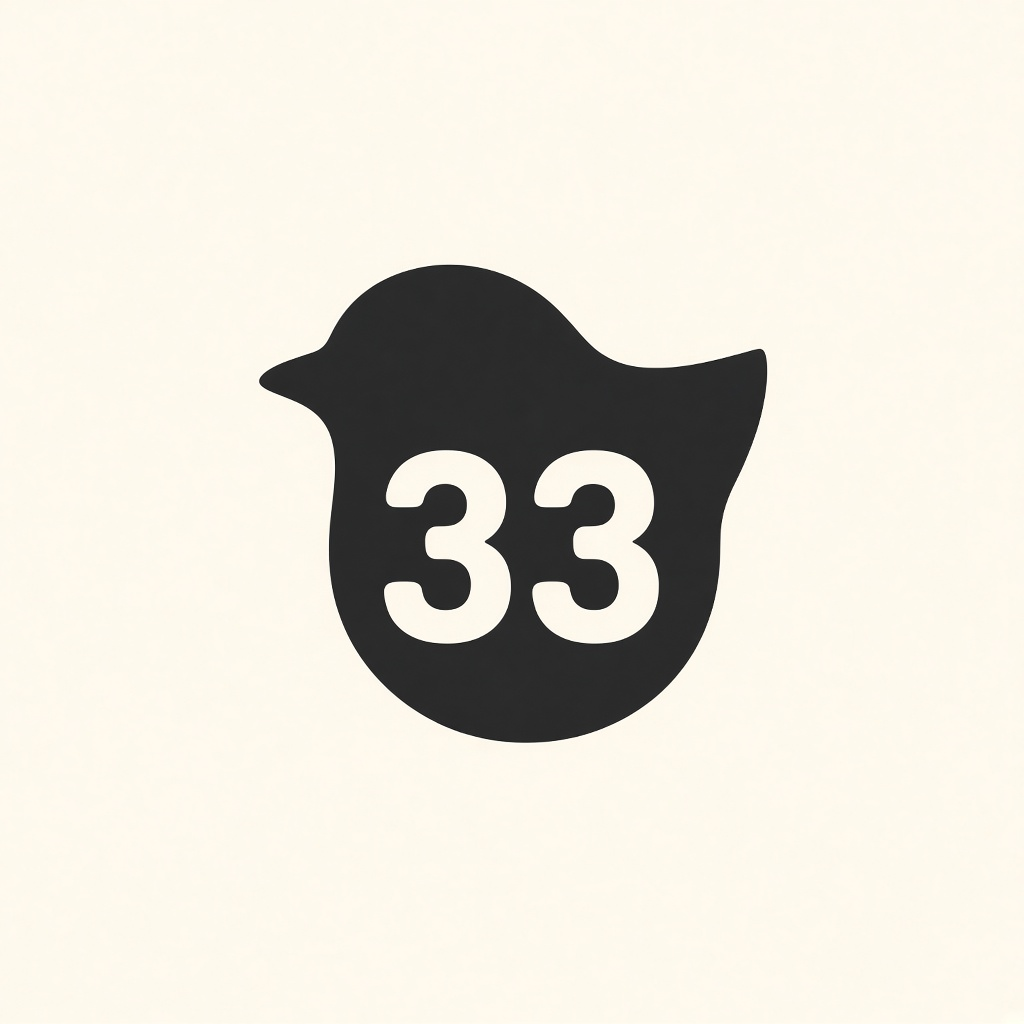
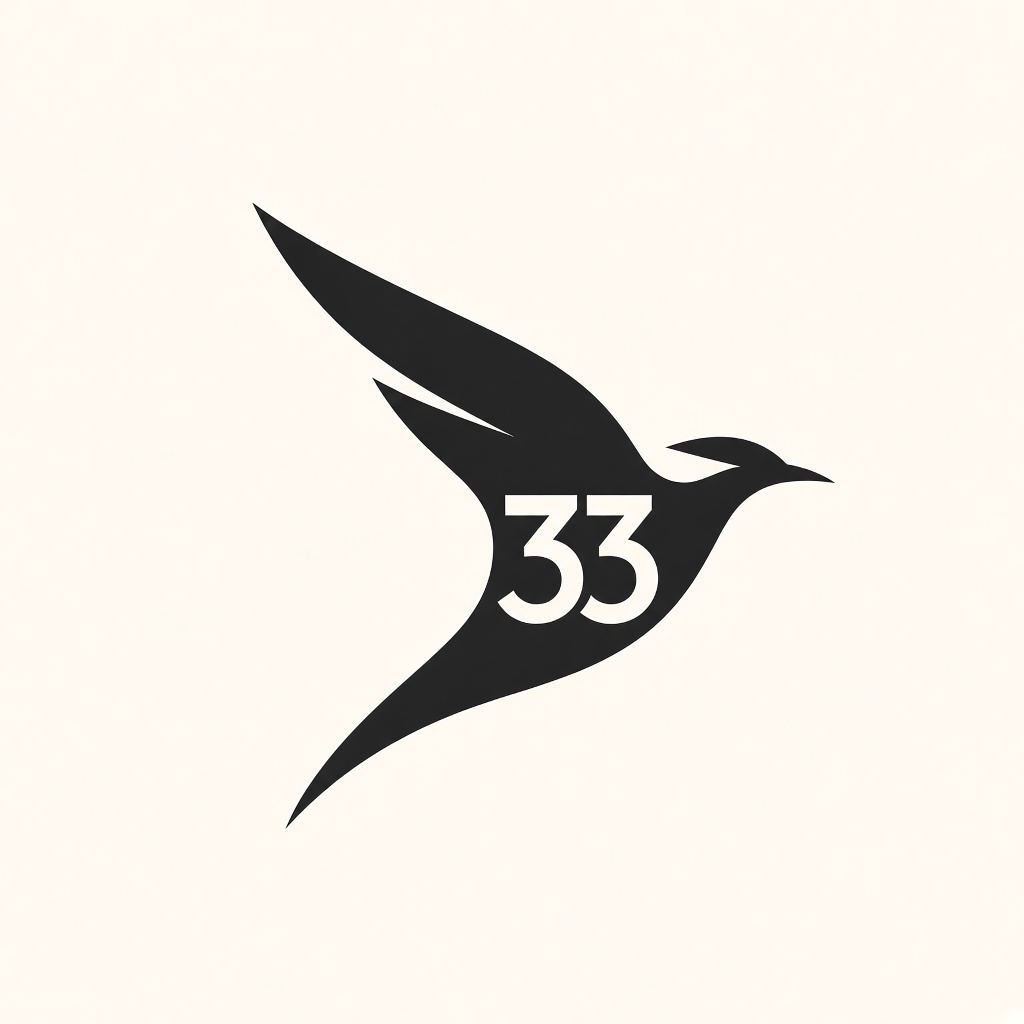
feat(brand): upgrade Diyar assets and cinematic intro motion
Replace artificial textured bird with flat editorial silhouettes,
slow the intro flight path, and blend assets cleanly on cream.

Changed region(s): [[0.25, 0.1875, 0.8125, 0.8125]]

diff --git a/src/Label33.Web/wwwroot/css/brand.css b/src/Label33.Web/wwwroot/css/brand.css
@@ -236,36 +236,42 @@ button, input, select { font: inherit; color: inherit; }
 .intro.is-done {
   pointer-events: none;
   opacity: 0;
-  transition: opacity 0.9s var(--ease);
+  transition: opacity 1.1s var(--ease);
 }
 
 .intro__bird {
-  width: min(42vw, 420px);
+  width: min(46vw, 520px);
   position: absolute;
-  left: -30%;
-  top: 42%;
+  left: -40%;
+  top: 48%;
   transform: translateY(-50%);
-  animation: diyar-flight 3.6s var(--ease) forwards;
+  mix-blend-mode: multiply;
+  filter: contrast(1.05);
+  animation: diyar-flight 5.2s cubic-bezier(0.4, 0.0, 0.2, 1) forwards;
+  will-change: transform, left, top, opacity;
 }
 
 .intro__copy {
   text-align: center;
   opacity: 0;
-  animation: fade-up 1s var(--ease) 1.6s forwards;
+  animation: fade-up 1.2s var(--ease) 2.1s forwards;
+  z-index: 2;
 }
 
 .intro__copy .brand-num {
   font-family: var(--font-display);
   font-size: clamp(3rem, 10vw, 7rem);
   margin: 0;
+  letter-spacing: -0.04em;
 }
 
 .intro__copy .tag {
   margin: 0.75rem 0 0;
   text-transform: uppercase;
-  letter-spacing: 0.2em;
-  font-size: 0.8rem;
+  letter-spacing: 0.22em;
+  font-size: 0.78rem;
   white-space: pre-line;
+  color: var(--charcoal-soft);
 }
 
 .intro__skip {
@@ -279,17 +285,45 @@ button, input, select { font: inherit; color: inherit; }
   font-size: 0.7rem;
   color: var(--muted);
   cursor: pointer;
+  z-index: 3;
 }
 
 @keyframes diyar-flight {
-  0% { left: -35%; top: 55%; transform: translateY(-50%) rotate(-8deg) scale(0.9); }
-  45% { left: 38%; top: 46%; transform: translateY(-50%) rotate(0deg) scale(1); }
-  70% { left: 42%; top: 44%; transform: translateY(-50%) rotate(2deg) scale(1.02); }
-  100% { left: 110%; top: 18%; transform: translateY(-50%) rotate(12deg) scale(0.95); opacity: 0.85; }
+  0% {
+    left: -42%;
+    top: 62%;
+    opacity: 0;
+    transform: translateY(-50%) rotate(-14deg) scale(0.86);
+  }
+  12% {
+    opacity: 1;
+  }
+  38% {
+    left: 28%;
+    top: 46%;
+    transform: translateY(-50%) rotate(-2deg) scale(1);
+  }
+  52% {
+    left: 36%;
+    top: 44%;
+    transform: translateY(-50%) rotate(0deg) scale(1.03);
+  }
+  78% {
+    left: 72%;
+    top: 28%;
+    opacity: 1;
+    transform: translateY(-50%) rotate(8deg) scale(0.98);
+  }
+  100% {
+    left: 118%;
+    top: 12%;
+    opacity: 0;
+    transform: translateY(-50%) rotate(16deg) scale(0.9);
+  }
 }
 
 @keyframes fade-up {
-  from { opacity: 0; transform: translateY(12px); }
+  from { opacity: 0; transform: translateY(14px); }
   to { opacity: 1; transform: translateY(0); }
 }
 
@@ -335,9 +369,11 @@ button, input, select { font: inherit; color: inherit; }
 .hero__visual img {
   width: 100%;
   height: 100%;
-  object-fit: cover;
+  object-fit: contain;
   object-position: center;
-  animation: hero-drift 12s var(--ease) infinite alternate;
+  padding: clamp(1.5rem, 5vw, 4rem);
+  mix-blend-mode: multiply;
+  animation: hero-drift 14s var(--ease) infinite alternate;
 }
 
 @keyframes hero-drift {

diff --git a/src/Label33.Web/wwwroot/js/brand.js b/src/Label33.Web/wwwroot/js/brand.js
@@ -18,7 +18,7 @@
       intro.remove();
     } else {
       sessionStorage.setItem('label33.intro.played', '1');
-      window.setTimeout(finishIntro, 4200);
+      window.setTimeout(finishIntro, 5600);
       skip?.addEventListener('click', finishIntro);
     }
   }
